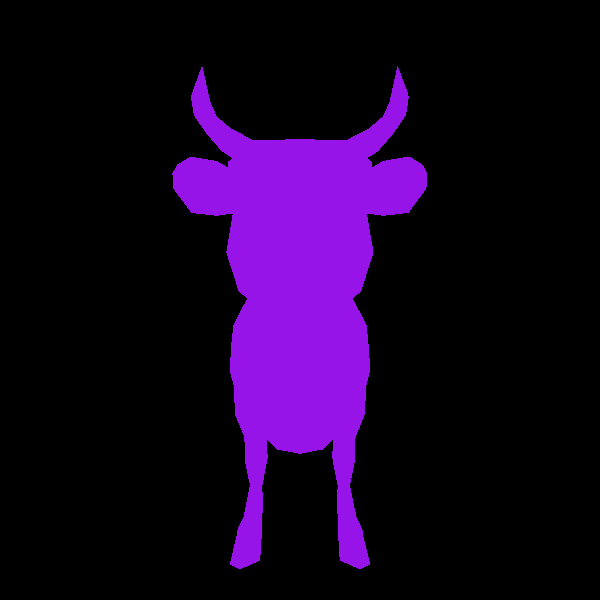
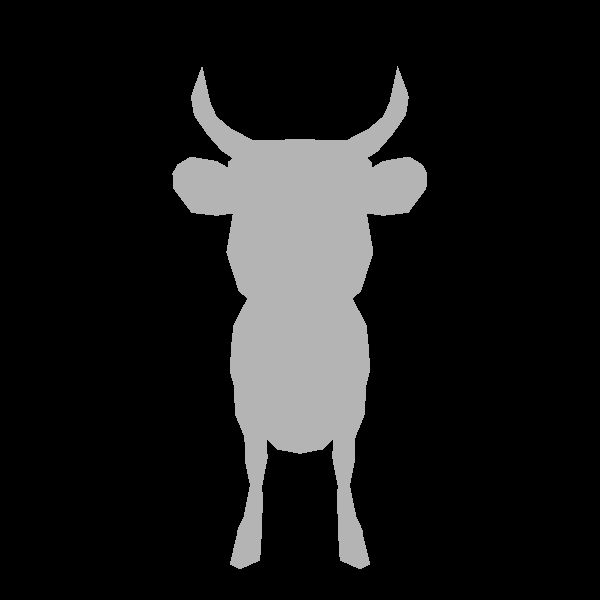
Refactoration of lib

Changed region(s): [[0.27, 0.12, 0.72, 0.96]]

diff --git a/src/lib.rs b/src/lib.rs
@@ -16,29 +16,15 @@ pub fn render(scene: &Scene) -> DynamicImage {
     for x in 0..scene.width {
         for y in 0..scene.height {
             let ray = Ray::create_prime(x, y, scene);
-            let mut nearest_element: Option<&Element> = None;
-            let mut dist_to_nearest_element: f64 = 10E6;
-            for e in &scene.elements {
-                let intersect = e.intersect(&ray);
-                // render only the nearest element
-                match intersect {
-                    Some(d) => {
-                        if d < dist_to_nearest_element {
-                            nearest_element = Some(e);
-                            dist_to_nearest_element = d;
-                        }
-                    }
-                    None => {}
-                }
-            }
-            match nearest_element {
-                Some(c) => {
-                    let color: Color = get_color(c);
+            let intersection: Option<&Element> = scene.trace(&ray);
+            match intersection {
+                Some(element) => {
+                    let color: &Color = get_color(element);
                     image.put_pixel(
                         x,
                         y,
                         Rgba([
-                            (dist_to_nearest_element * 100.0) as u8,
+                            color.red as u8,
                             color.green as u8,
                             color.blue as u8,
                             255,
@@ -84,6 +70,11 @@ mod integration_test {
                         y: 1.0,
                         z: -5.0,
                     },
+                    color: Color {
+                        red: 180.0,
+                        green: 20.0,
+                        blue: 20.0,
+                    },
                 }),
                 Element::Triangle(Triangle {
                     point1: Point {
@@ -100,6 +91,11 @@ mod integration_test {
                         x: -1.0,
                         y: 1.0,
                         z: -5.0,
+                    },
+                    color: Color {
+                        red: 20.0,
+                        green: 180.0,
+                        blue: 20.0,
                     },
                 }),
             ],

diff --git a/src/load_geo_scene.rs b/src/load_geo_scene.rs
@@ -1,5 +1,5 @@
 use crate::point::Point;
-use crate::scene::{Element, Scene, Triangle};
+use crate::scene::{Element, Scene, Triangle, Color};
 use std::fs::File;
 use std::io::prelude::*;
 
@@ -112,6 +112,11 @@ pub fn create_triangles(
                 .get(*triangle_index_array.get(3 * i + 2).unwrap())
                 .unwrap()
                 .clone(),
+            color: Color {
+                red: 180.0,
+                green: 180.0,
+                blue: 180.0,
+            },
         };
         triangles.push(Element::Triangle(triangle));
     }
@@ -192,11 +197,21 @@ mod test_file_read {
                 point1: point1.clone(),
                 point2: point2.clone(),
                 point3: point3.clone(),
+                color: Color {
+                    red: 180.0,
+                    green: 180.0,
+                    blue: 180.0,
+                },
             },
             Triangle {
                 point1: point1.clone(),
                 point2: point3.clone(),
                 point3: point4.clone(),
+                color: Color {
+                    red: 180.0,
+                    green: 180.0,
+                    blue: 180.0,
+                },
             },
         ];
 

diff --git a/src/scene.rs b/src/scene.rs
@@ -1,5 +1,6 @@
 use crate::point::Point; // get access to point struct
 use crate::vector::Vector3;
+use crate::rendering::{Ray, Intersectable};
 
 pub struct Color {
     pub red: f32,
@@ -17,6 +18,7 @@ pub struct Triangle {
     pub point1: Point,
     pub point2: Point,
     pub point3: Point,
+    pub color: Color,
 }
 
 pub struct Plane {
@@ -37,5 +39,24 @@ pub struct Scene {
     pub elements: Vec<Element>, 
 }
 
-
+impl Scene {
+    pub fn trace(&self, ray: &Ray) -> Option<&Element> {
+        let mut nearest_element: Option<&Element> = None;
+        let mut dist_to_nearest_element: f64 = 10E6;
+        for e in &self.elements {
+            let intersect = e.intersect(&ray);
+            // find nearest element
+            match intersect {
+                Some(d) => {
+                    if d < dist_to_nearest_element {
+                        nearest_element = Some(e);
+                        dist_to_nearest_element = d;
+                    }
+                }
+                None => {}
+            }
+        }
+        nearest_element
+    }
+}
 

diff --git a/src/rendering.rs b/src/rendering.rs
@@ -155,8 +155,14 @@ impl Intersectable for Plane {
     }
 }
 
-pub fn get_color(element: &Element) -> Color {
-    Color {
+pub fn get_color(element: &Element) -> &Color {
+    match element {
+        Element::Triangle(t) => {
+            return &t.color;
+        },
+        _ => {print!("Not Triangle \n", )},
+    }
+    &Color {
         red: 65.0,
         green: 20.0,
         blue: 150.0,
